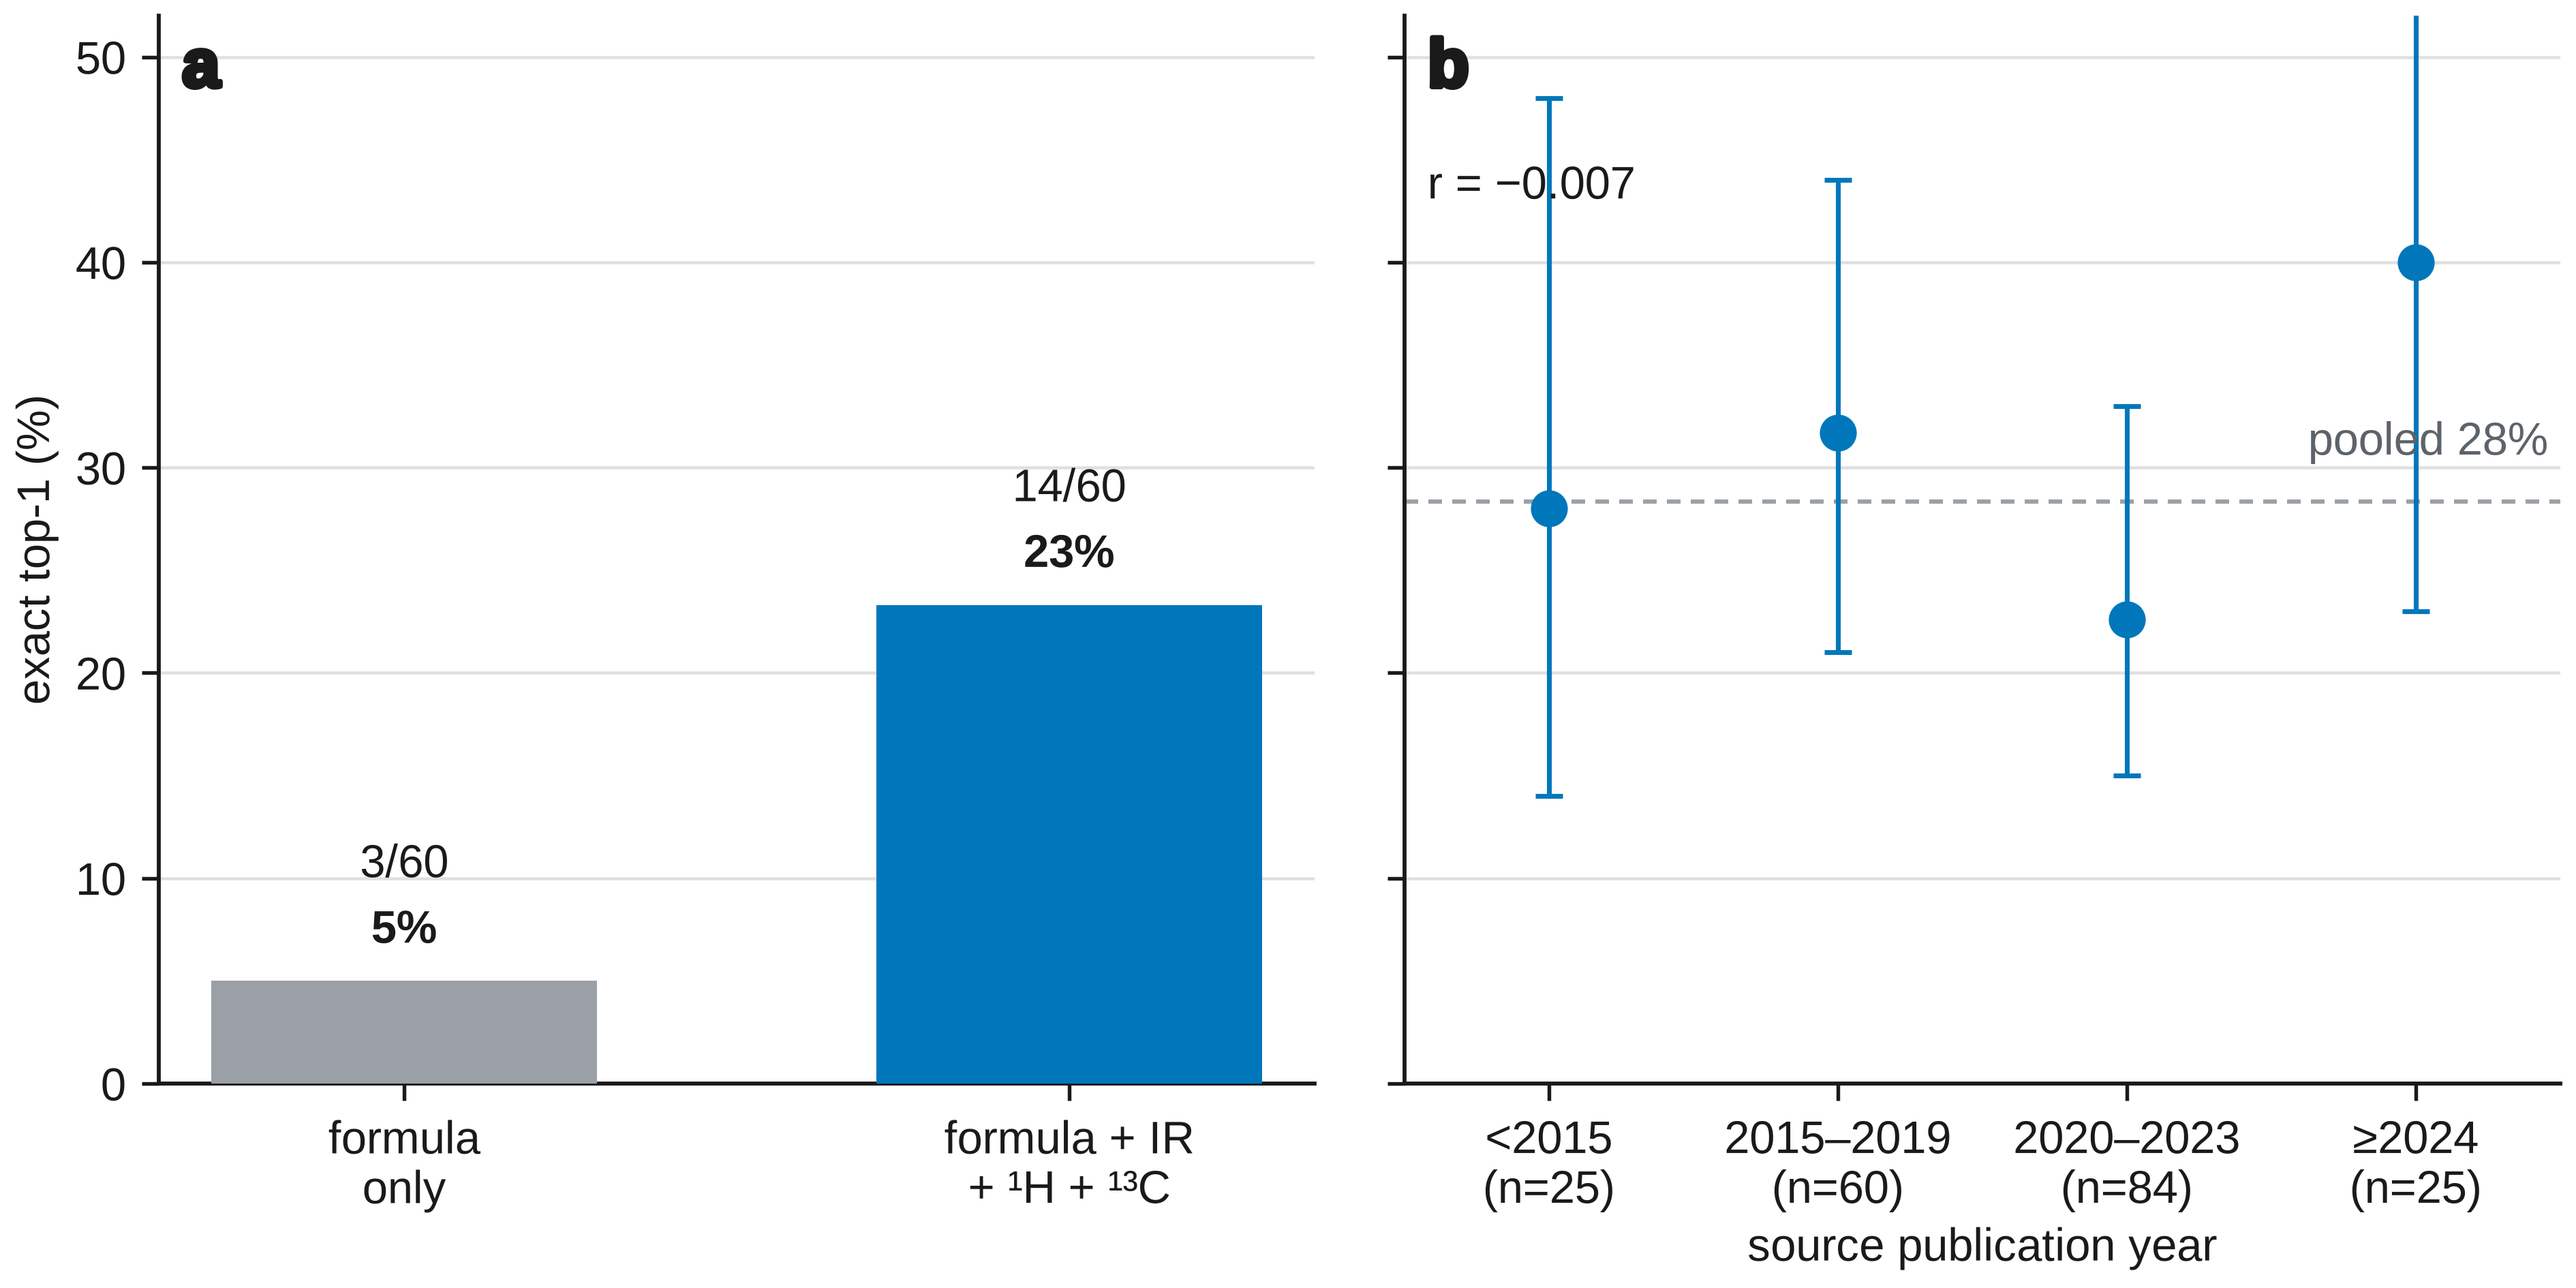
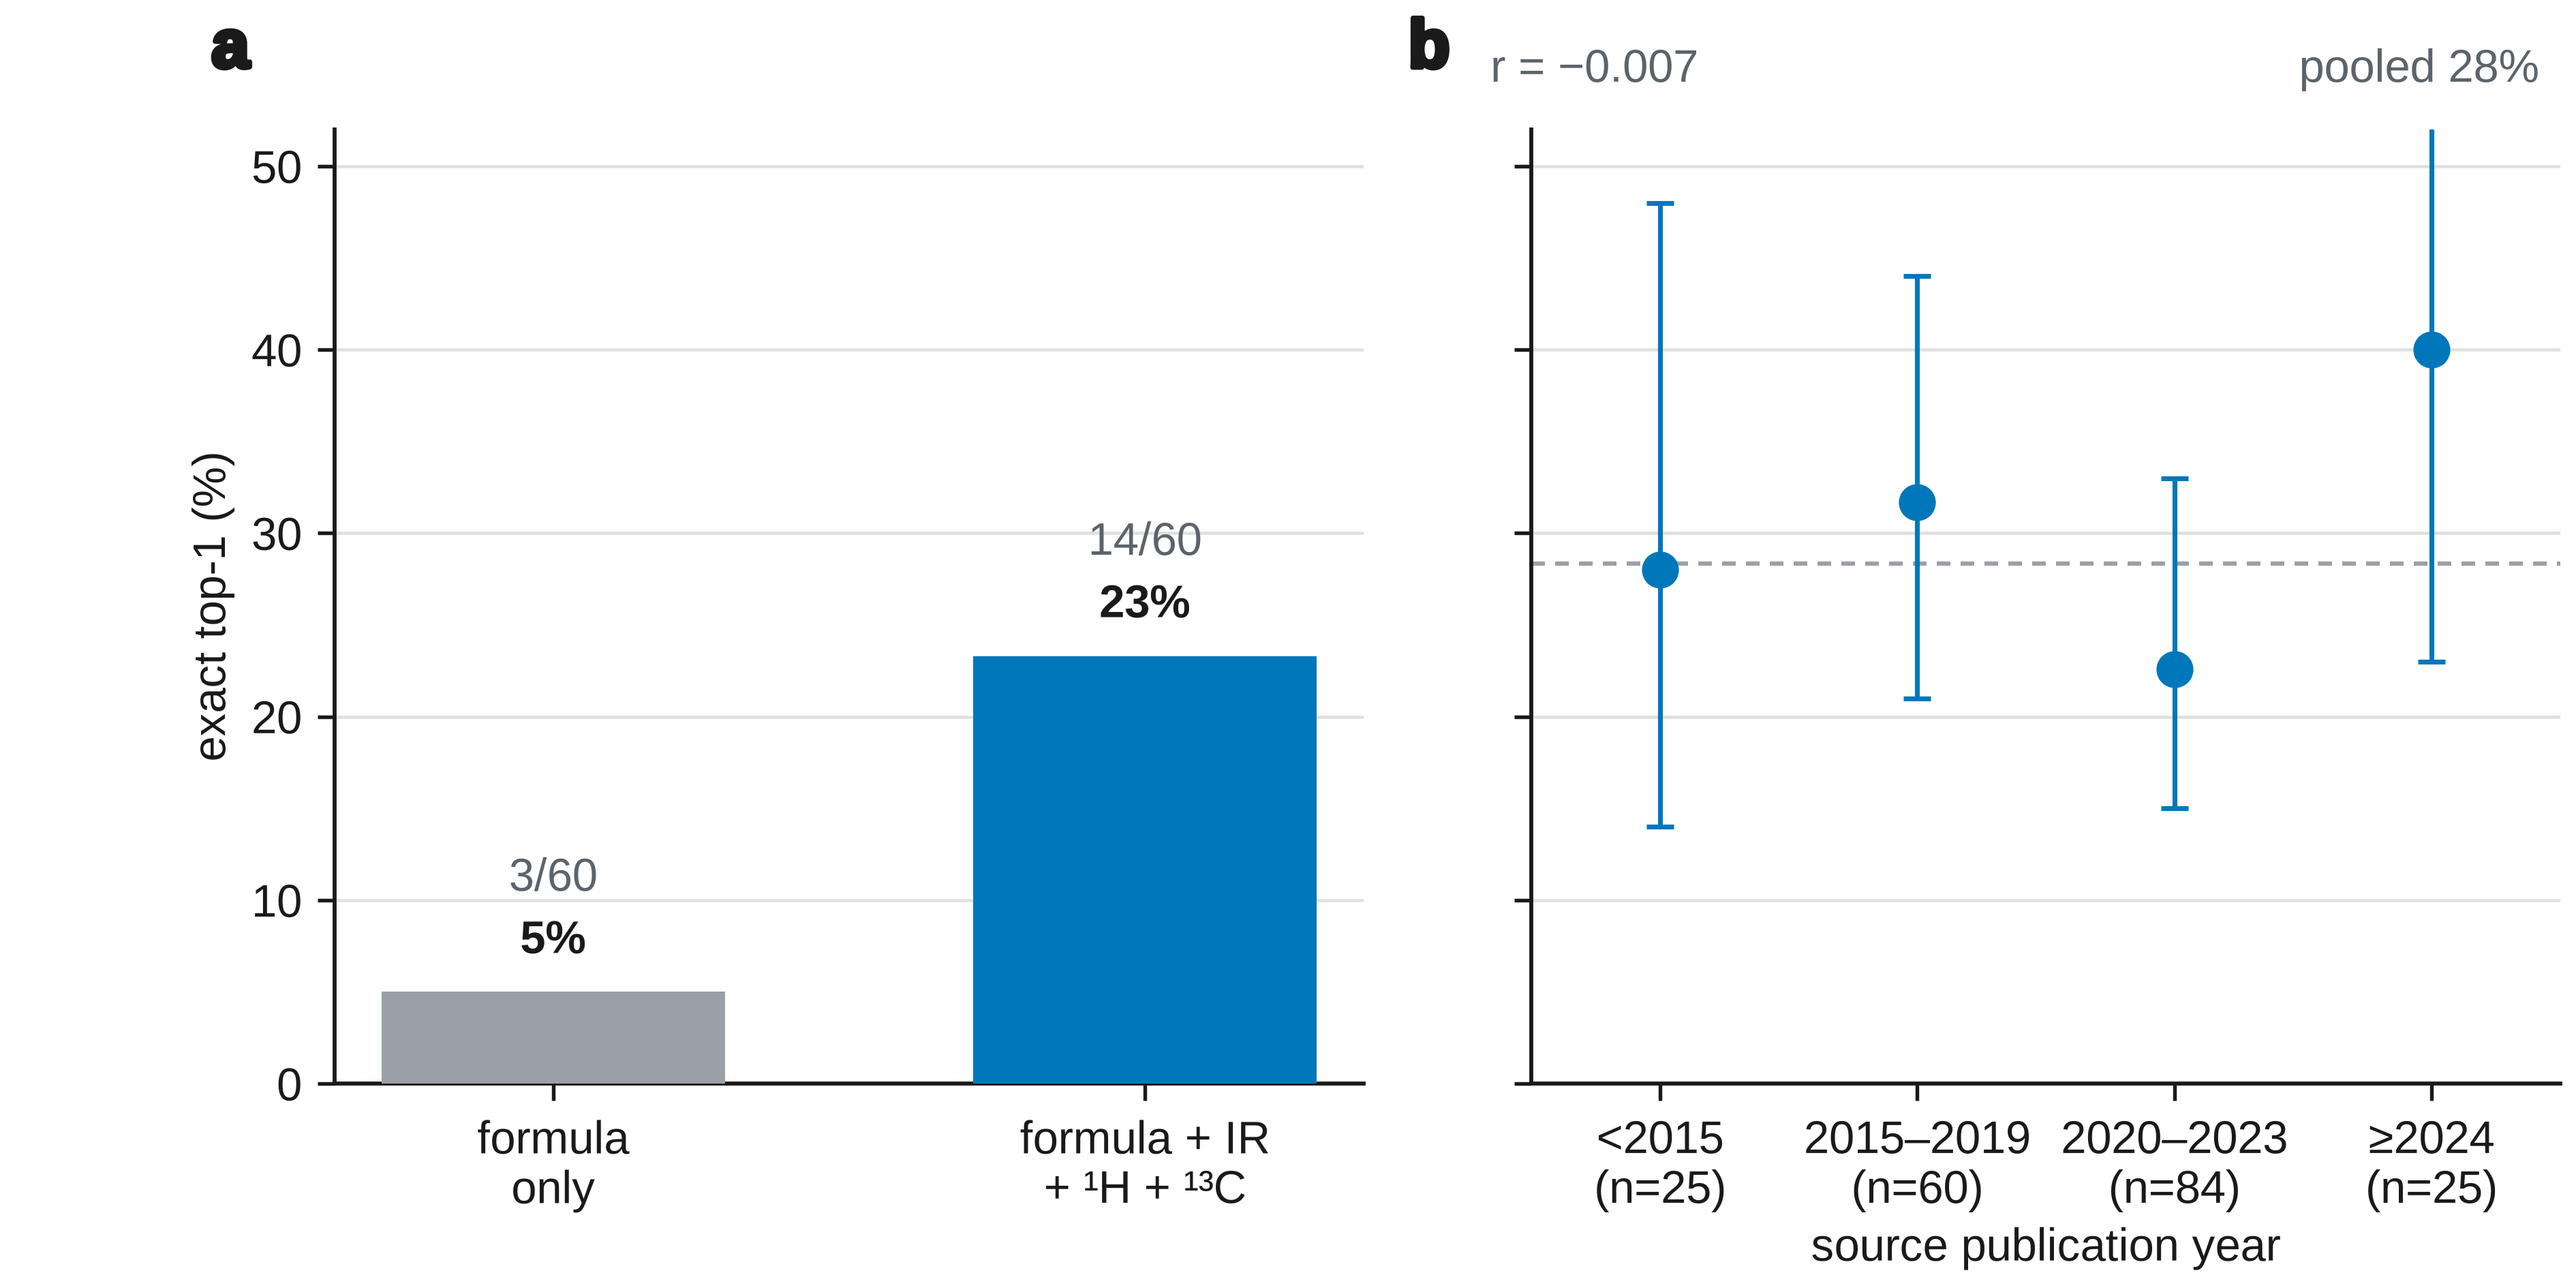
Fix contamination and crossvendor panel letters and label placement
- panel(): outside top-left defaults (x=-0.12, y=1.05) with finish() margin
- contamination (b): r and pooled labels on top margin, clear of error bars
- crossvendor (b): numbered scatter marks + outside key (names overlapped)

diff --git a/scripts/make_fig_contamination.py b/scripts/make_fig_contamination.py
@@ -10,29 +10,28 @@ fs.apply()
 fo = json.load(open("data/modality/formulaonly_control.json"))
 rc = json.load(open("data/audit/recency_control.json"))
 
-# Shared y-scale so the two panels can be compared by eye. Ceiling is just above
-# panel (b)'s upper CI, not a decorative 0–100.
 YMAX = 52
 fig, (axA, axB) = plt.subplots(1, 2, figsize=(fs.COL2, fs.H2), sharey=True)
 
-# ---- (a) formula-only ablation -------------------------------------------------
+# ---- (a) ------------------------------------------------------------------
 labels = ["formula\nonly", "formula + IR\n+ \u00b9H + \u00b9\u00b3C"]
 vals = [5.0, 23.3]
 cols = [fs.MUTED, fs.BLUE]
 bars = axA.bar([0, 1], vals, width=fs.BAR_W, color=cols, zorder=3)
 fs.ygrid(axA)
-# Counts sit above the bars: the 5% bar is too short to carry white in-bar type.
 for b, v, k in zip(bars, vals, ["3/60", "14/60"]):
-    axA.text(b.get_x() + b.get_width() / 2, v + 1.4, f"{v:.0f}%",
+    axA.text(b.get_x() + b.get_width() / 2, v + 1.6, f"{v:.0f}%",
              ha="center", va="bottom", fontsize=fs.FS_BODY, fontweight="bold",
              color=fs.INK)
-    axA.text(b.get_x() + b.get_width() / 2, v + 4.6, k,
-             ha="center", va="bottom", fontsize=fs.FS_BODY, color=fs.INK)
-axA.set_xticks([0, 1]); axA.set_xticklabels(labels)
-axA.set_ylabel("exact top-1 (%)"); axA.set_ylim(0, YMAX)
+    axA.text(b.get_x() + b.get_width() / 2, v + 5.0, k,
+             ha="center", va="bottom", fontsize=fs.FS_BODY, color=fs.NOTE)
+axA.set_xticks([0, 1])
+axA.set_xticklabels(labels)
+axA.set_ylabel("exact top-1 (%)")
+axA.set_ylim(0, YMAX)
 fs.panel(axA, "a")
 
-# ---- (b) accuracy vs publication year ------------------------------------------
+# ---- (b) ------------------------------------------------------------------
 bk = rc["buckets"]
 xs = list(range(len(bk)))
 pts = [b["pct"] for b in bk]
@@ -44,23 +43,24 @@ axB.errorbar(xs, pts, yerr=[lo, hi], fmt="o", ms=fs.MARKER, color=fs.BLUE,
 fs.ygrid(axB)
 pooled = 100 * sum(b["top1"] for b in bk) / sum(b["n"] for b in bk)
 fs.refline(axB, y=pooled)
-ymax_ci = max(b["ci"][1] for b in bk)
-label_y = min(YMAX - 1.0, ymax_ci + 1.5)
-axB.text(0.99, label_y, f"pooled {pooled:.0f}%", transform=axB.get_yaxis_transform(),
-         ha="right", va="bottom", fontsize=fs.FS_BODY, color=fs.NOTE, clip_on=False)
-axB.set_xticks(xs)
+# Both labels outside the axes (top edge) — every CI crosses the pooled
+# line, so any in-panel / on-line label collides with an error bar.
+axB.text(-0.04, 1.04, f"r = {rc['point_biserial_r']:+.3f}".replace("-", "\u2212"),
+         transform=axB.transAxes, ha="left", va="bottom",
+         fontsize=fs.FS_BODY, color=fs.NOTE, clip_on=False)
+axB.text(0.98, 1.04, f"pooled {pooled:.0f}%",
+         transform=axB.transAxes, ha="right", va="bottom",
+         fontsize=fs.FS_BODY, color=fs.NOTE, clip_on=False)
 
 def tick(lab):
     return lab.replace(">=", "\u2265").replace("<=", "\u2264").replace("-", "\u2013")
+axB.set_xticks(xs)
 axB.set_xticklabels([f"{tick(b['label'])}\n(n={b['n']})" for b in bk])
-axB.set_xlim(-0.5, len(bk) - 0.5); axB.set_ylim(0, YMAX)
+axB.set_xlim(-0.5, len(bk) - 0.5)
+axB.set_ylim(0, YMAX)
 axB.set_xlabel("source publication year", labelpad=2)
-r_txt = f"r = {rc['point_biserial_r']:+.3f}".replace("-", "\u2212")
-axB.text(-0.02, 1.02, r_txt, transform=axB.transAxes,
-         ha="left", va="bottom", fontsize=fs.FS_BODY, color=fs.INK, clip_on=False,
-         bbox=dict(boxstyle="round,pad=0.25", fc="white", ec="none"))
 fs.panel(axB, "b")
 
-fs.finish(w_pad=1.6, left=0.13)
+fs.finish(w_pad=1.6, left=0.13, top=0.90)
 fs.save("docs/figures/fig_contamination.png")
 print("wrote docs/figures/fig_contamination.png")

diff --git a/scripts/make_fig_crossvendor.py b/scripts/make_fig_crossvendor.py
@@ -2,7 +2,7 @@
 """Fig. 7 — every model measured, on one axis where they share a compound set.
 
 (a) ranks by generation recall on the 60-compound arm; formula-adherence gate in colour.
-(b) recall against verification precision, with the diagonal.
+(b) recall against verification precision — numbered marks + key (no overlapping names).
 """
 import sys
 import numpy as np
@@ -25,6 +25,9 @@ MODELS = [
 ]
 GATE = 78
 PARTIAL = "DeepSeek V4 Pro"
+
+# Scatter models with verification, numbered for the key (recall-descending).
+SCATTER = [(n, r, a, p) for n, r, a, p in MODELS if p is not None]
 
 fig, (ax, bx) = plt.subplots(1, 2, figsize=(fs.COL2, 3.45),
                              gridspec_kw={"width_ratios": [0.92, 1]})
@@ -58,38 +61,38 @@ bx.plot([0, 100], [0, 100], color=fs.MUTED, lw=fs.REF_LW, ls=fs.REF_LS, zorder=1
 bx.set_axisbelow(True)
 bx.yaxis.grid(True, color=fs.FAINT, linewidth=0.55)
 bx.xaxis.grid(True, color=fs.FAINT, linewidth=0.55)
-# Direct labels in data coords — offsets verified against each (x, y) pair.
-LBL = {
-    "Grok 4.6":         (5.0, -5.5, "left",  "top"),
-    "Gemini 3.7 Flash": (-5.0, 4.5, "right", "bottom"),
-    "GPT-5.6 Sol":      (5.0,  4.5, "left",  "bottom"),
-    "Claude Opus":      (-5.0, 0.0, "right", "center"),
-    "DeepSeek V4 Pro":  (5.0,  0.0, "left",  "center"),
-}
-for name, r, _adh, p in MODELS:
-    if p is None:
-        continue
+
+# Numbered marks — no name callouts on the scatter (they collide).
+for i, (name, r, _adh, p) in enumerate(SCATTER, start=1):
     x = 100 * r / 60
     c = fs.ORANGE if name == "Claude Opus" else fs.BLUE
     partial = name == PARTIAL
-    bx.scatter([x], [p], s=42, zorder=4, linewidth=1.05,
+    bx.scatter([x], [p], s=48, zorder=4, linewidth=1.05,
                facecolor="white" if partial else c, edgecolor=c,
                hatch="////" if partial else None)
-    ox, oy, ha, va = LBL.get(name, (5.0, 0.0, "left", "center"))
-    bx.text(x + ox, p + oy, name, ha=ha, va=va, fontsize=fs.FS_BODY, color=fs.INK,
-            zorder=5, bbox=dict(fc="white", ec="none", pad=0.45))
+    # Digit slightly below-left of the mark, clear of neighbours.
+    bx.text(x - 1.8, p - 3.2, str(i), fontsize=fs.FS_BODY, fontweight="bold",
+            color=fs.INK, ha="right", va="top", zorder=5, clip_on=False)
+
+# Key in empty lower-right quadrant (below the cloud, right of the diagonal label).
+key = "\n".join(f"{i}. {n}" for i, (n, *_rest) in enumerate(SCATTER, start=1))
+bx.text(0.98, 0.04, key, transform=bx.transAxes, fontsize=fs.FS_BODY,
+        color=fs.INK, ha="right", va="bottom", linespacing=1.35, zorder=6,
+        bbox=dict(boxstyle="round,pad=0.30", facecolor="white",
+                  edgecolor=fs.FAINT, linewidth=0.6))
+
 bx.set_xlabel("generation recall (%)", labelpad=2)
 bx.set_ylabel("verification precision | recall (%)", labelpad=2)
 bx.set_xlim(0, 100); bx.set_ylim(0, 100)
 bx.set_xticks([0, 25, 50, 75, 100]); bx.set_yticks([0, 25, 50, 75, 100])
 fs.panel(bx, "b")
 
-fs.finish(w_pad=1.8, left=0.14)
+fs.finish(w_pad=1.8, left=0.14, top=0.93)
 
 fig.canvas.draw()
 (x0, y0), (x1, y1) = bx.transData.transform([(20, 20), (80, 80)])
 bx.text(38, 32, "precision = recall", fontsize=fs.FS_BODY, color=fs.NOTE,
         rotation=np.degrees(np.arctan2(y1 - y0, x1 - x0)), rotation_mode="anchor",
-        ha="center", va="center")
+        ha="center", va="center", zorder=2)
 fs.save("docs/figures/fig7_crossvendor.png")
 print("wrote docs/figures/fig7_crossvendor.png")
